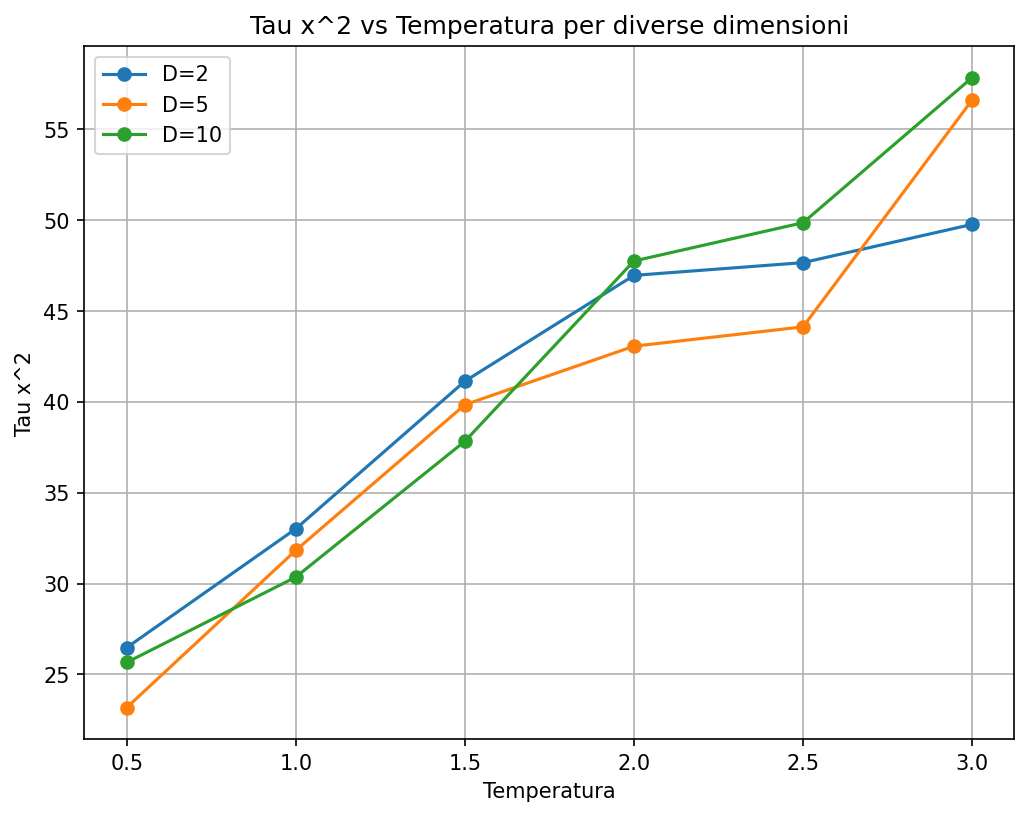
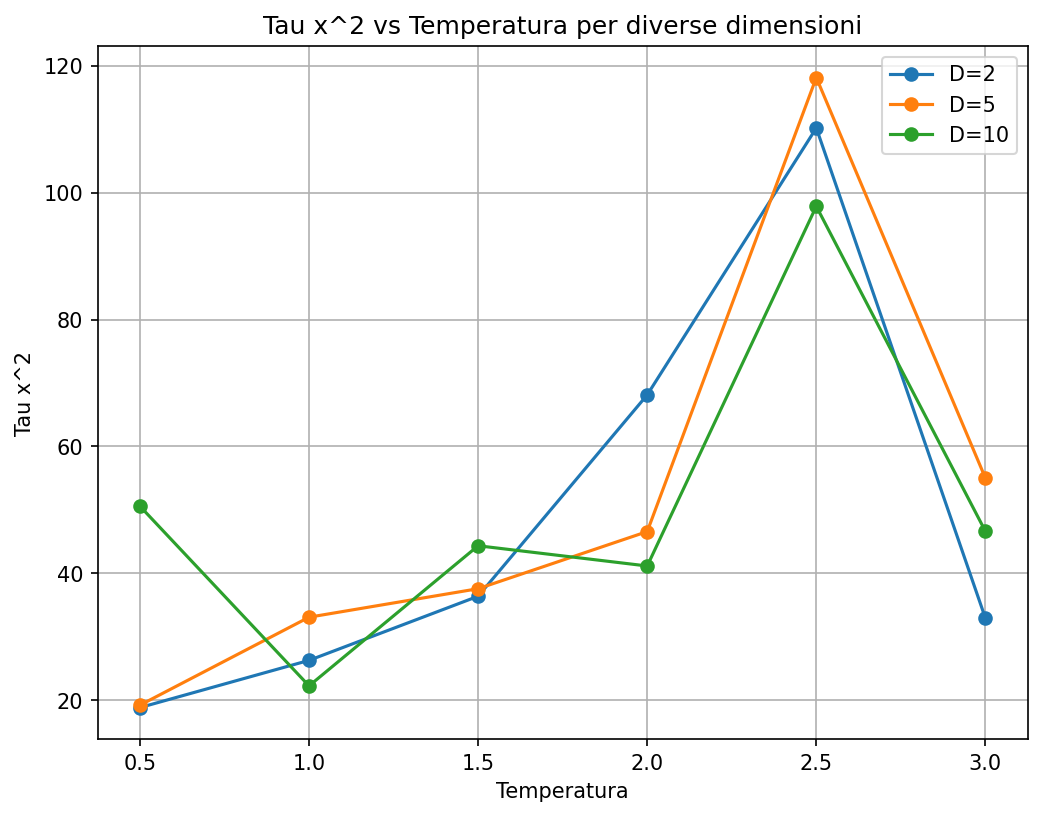
runned

diff --git a/source/main.py b/source/main.py
@@ -9,7 +9,7 @@ def main():
     dimensions = [2, 5, 10]
     temperatures = jnp.linspace(0.5, 3.0, 6)
     n_thermalization = 20000
-    n_steps = 80000
+    n_steps = 3000
     step_size = 0.1
     trajectories = {}
 
@@ -30,8 +30,9 @@ def main():
         x, key = metro.generate_config(key, D, "zeros")
 
         for T in temperatures:
+            # thermalization
             _, _, key , x = metro.run_simulation(key, T, n_thermalization, step_size, initial_x=x)
-
+            # production
             trajectory, acceptance_rate, key , x = metro.run_simulation(
                 key, T, n_steps, step_size, initial_x=x)
             

diff --git a/source/plot.py b/source/plot.py
@@ -44,7 +44,6 @@ def plot_trajectory(trajectories, temperatures, dimensions):
             ax.set_xlabel("x[0]")
             ax.set_ylabel("Density")
     plt.tight_layout()
-    plt.legend()
     filename = f"trajectories_density.png"
     filepath = os.path.join(REPORT_DIR, filename)
     plt.savefig(filepath, dpi=150, bbox_inches="tight")
